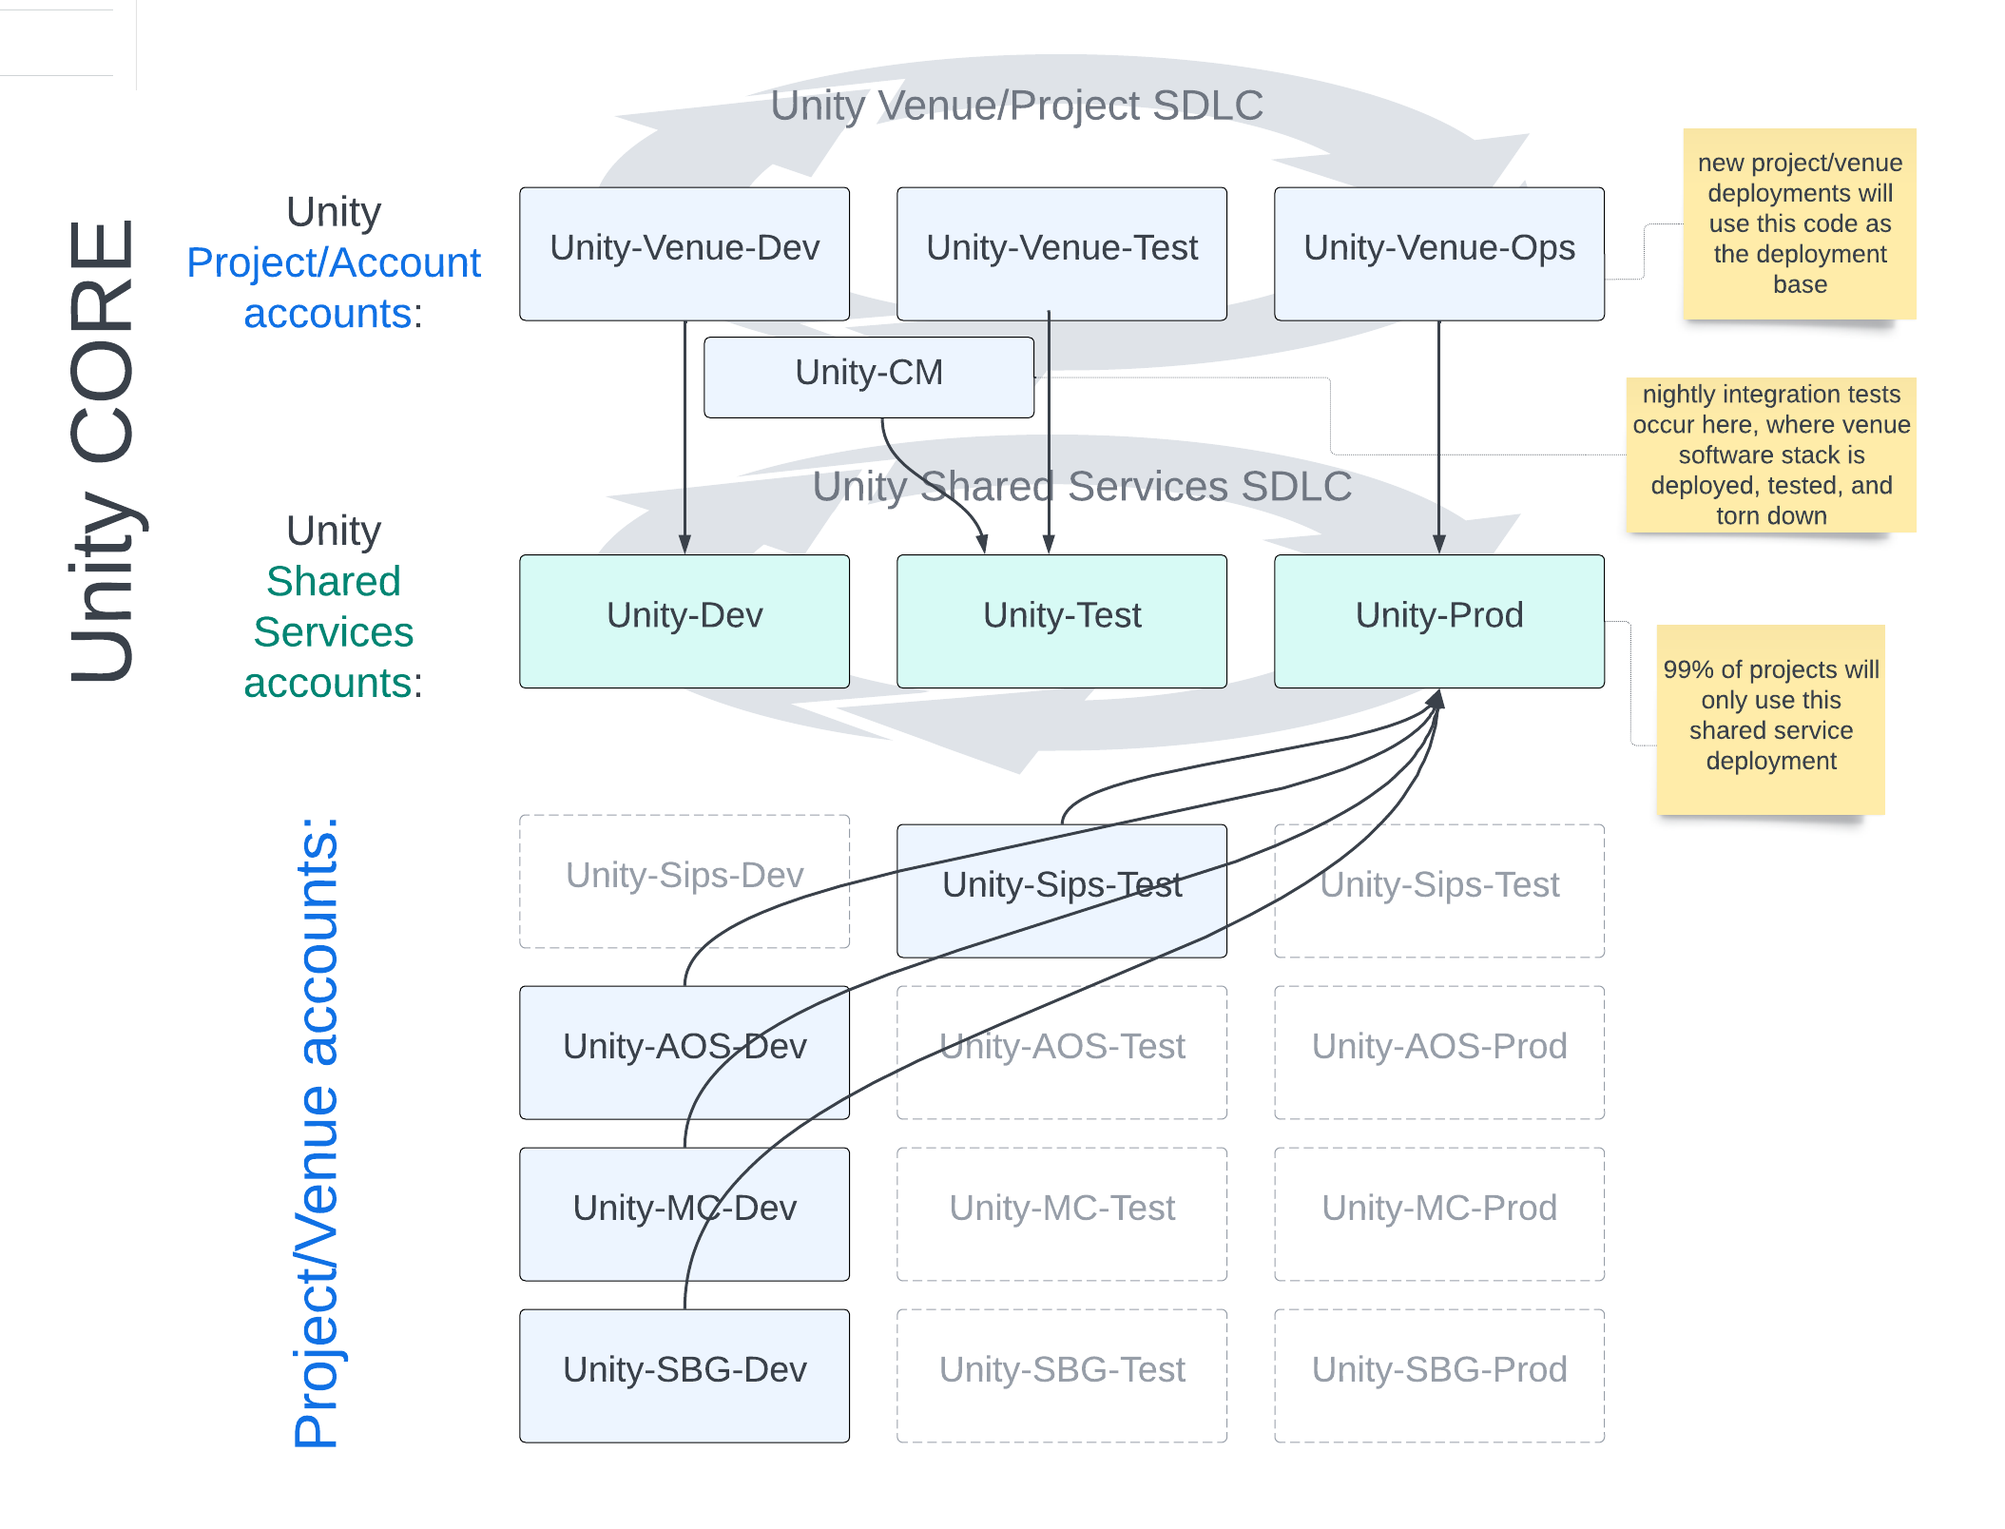
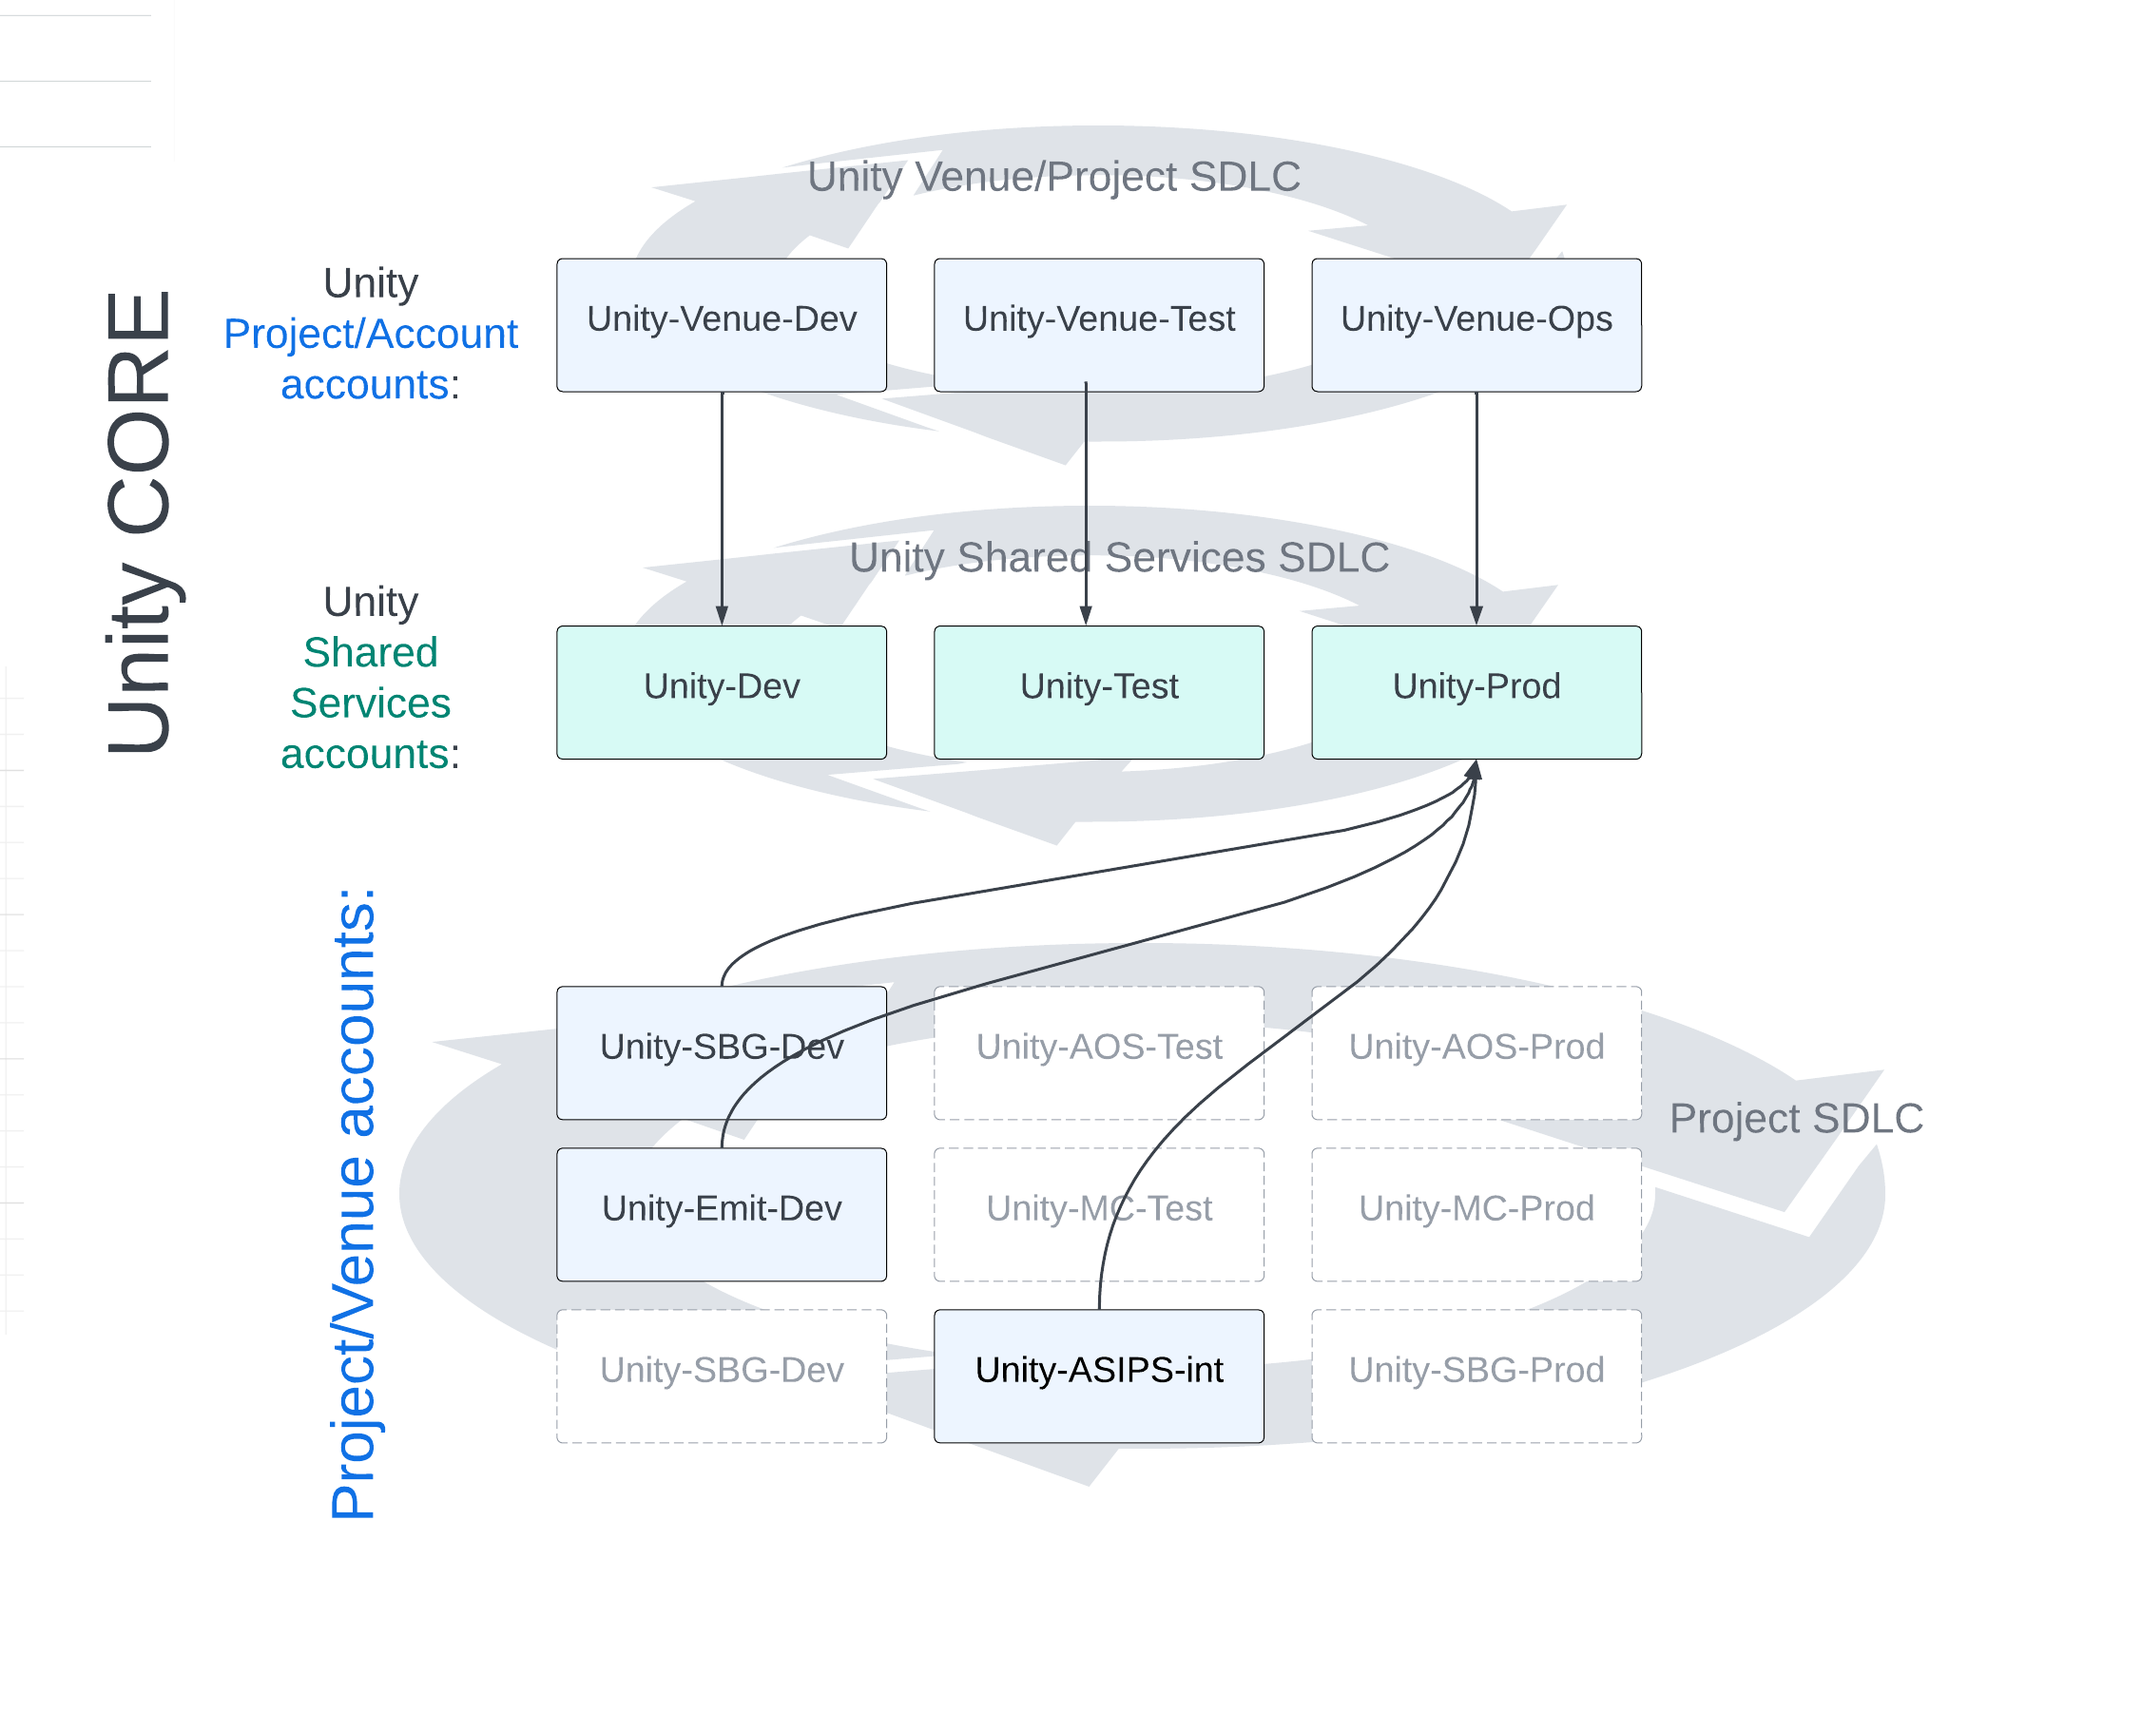
GITBOOK-514: change request with no subject merged in GitBook

diff --git a/system-docs/architecture/deployments-projects-and-venues/unity-owned-venues.md b/system-docs/architecture/deployments-projects-and-venues/unity-owned-venues.md
@@ -6,19 +6,26 @@ description: These are the currently "unity" owned venues.
 
 <div data-full-width="true">
 
-<figure><img src="../../../.gitbook/assets/Unity Venues and SDLC (5).png" alt=""><figcaption></figcaption></figure>
+<figure><img src="../../../.gitbook/assets/Unity Venues and SDLC (1).png" alt=""><figcaption></figcaption></figure>
 
 </div>
 
-| Venue            | Description                                                                                                    | Services                                                                                                                                                         | Shared Service Account                |
-| ---------------- | -------------------------------------------------------------------------------------------------------------- | ---------------------------------------------------------------------------------------------------------------------------------------------------------------- | ------------------------------------- |
-| Unity-Dev        | Development account for unity shared services                                                                  | <ul><li>data catalog</li><li>application catalog</li><li>web gateway</li><li>cognito</li><li>DAPA translator</li></ul>                                           | N/A                                   |
-| Unity-Test       | Test account for Unity shared services                                                                         | <ul><li>data catalog</li><li>application catalog</li><li>web gateway</li><li>cognito</li><li>DAPA translator</li></ul>                                           | N/A                                   |
-| Unity-Prod       | Production account for unity shared services                                                                   | <ul><li>data catalog</li><li>application catalog</li><li>web gateway</li><li>cognito</li><li>DAPA translator</li></ul>                                           | N/A                                   |
-| Unity-Sips-Test  | Venue for SounderSIPS users developing and executing  the chirp, L1a and L1B workflows.                        | <ul><li>ADES (HySDS)</li><li>Job Database</li><li>JupyterHub</li><li>Mission Store</li><li>Dashboard</li></ul>                                                   | Unity-Test (Unity-Prod in the future) |
-| Unity-CM         | Nightly test venue.                                                                                            | Management Console                                                                                                                                               | Unity-Test                            |
-| Unity-Venue-Dev  | Development environment for venue deployed services                                                            | <ul><li>ADES (HySDS)</li><li>SDAP</li><li>EMS and ADES (Airflow)</li><li>JupyterHub</li><li>Mission Store</li><li>Dashboard</li><li>Management Console</li></ul> | Unity-Dev\*                           |
-| Unity-Venue-Test | Test environment for venue deployed services                                                                   | <ul><li>EMS and ADES (Airflow)</li><li>JupyterHub</li><li>Mission Store</li><li>Dashboard</li><li>Management Console</li></ul>                                   | Unity-Test                            |
-| Unity-Venue-Ops  | Operational environment for venue deployed services. Used primarily as a smoke test or final validation venue. | <ul><li>EMS and ADES (Airflow)</li><li>JupyterHub</li><li>Mission Store</li><li>Dashboard</li><li>Management Console</li></ul>                                   | Unity-Prod\*                          |
-| Unity-SBG-Dev    | Venue to support SBD use cases                                                                                 | <ul><li>EMS and ADES (Airflow)</li><li>Mission Store</li><li>Management Console</li><li><em>JupyterHub (TBD)</em></li></ul>                                      | Unity-Prod\*                          |
-|                  |                                                                                                                |                                                                                                                                                                  |                                       |
+### Environments
+
+| Account Name  | Description                                                                                                              | Services                                                                                                                                                                            |
+| ------------- | ------------------------------------------------------------------------------------------------------------------------ | ----------------------------------------------------------------------------------------------------------------------------------------------------------------------------------- |
+| Unity-Dev     | Development Environment for Unity/MDPS **shared services** development and sandbox activities.                           | <p></p><ul><li>Data Catalog</li><li>App-pack-generation</li><li>Application Catalog</li><li>Web gateway/HTTPD</li><li>API Gateway</li><li>Cognito</li><li>DAPA translator</li></ul> |
+| Unity-Test    | Test envrionment for Unity/MDPS **shared service** releases. Load test, nightly testing, end to end system testing, etc. | <p></p><ul><li>Data Catalog</li><li>App-pack-generation</li><li>Application Catalog</li><li>Web gateway/HTTPD</li><li>API Gateway</li><li>Cognito</li><li>DAPA translator</li></ul> |
+| Unity-Prod    | Production environment for user facing **shared services**. 99% of users will be active in this environment.             | <p></p><ul><li>Data Catalog</li><li>App-pack-generation</li><li>Application Catalog</li><li>Web gateway/HTTPD</li><li>API Gateway</li><li>Cognito</li><li>DAPA translator</li></ul> |
+
+### Venues
+
+| Venue                                                  | Description                                                                                                    | Services                                                                                                                                                         | Shared Service Environment            |
+| ------------------------------------------------------ | -------------------------------------------------------------------------------------------------------------- | ---------------------------------------------------------------------------------------------------------------------------------------------------------------- | ------------------------------------- |
+| Unity-Sips-Test (Deprecated / Retired)                 | Venue for SounderSIPS users developing and executing  the chirp, L1a and L1B workflows.                        | <ul><li>ADES (HySDS)</li><li>Job Database</li><li>JupyterHub</li><li>Mission Store</li><li>Dashboard</li></ul>                                                   | Unity-Test (Unity-Prod in the future) |
+| Unity-CM                                               | Nightly test venue.                                                                                            | Management Console                                                                                                                                               | Unity-Test                            |
+| Unity-Venue-Dev                                        | Development environment for venue deployed services                                                            | <ul><li>ADES (HySDS)</li><li>SDAP</li><li>EMS and ADES (Airflow)</li><li>JupyterHub</li><li>Mission Store</li><li>Dashboard</li><li>Management Console</li></ul> | Unity-Dev                             |
+| Unity-Venue-Test                                       | Test environment for venue deployed services                                                                   | <ul><li>EMS and ADES (Airflow)</li><li>JupyterHub</li><li>Mission Store</li><li>Dashboard</li><li>Management Console</li></ul>                                   | Unity-Test                            |
+| Unity-Venue-Ops                                        | Operational environment for venue deployed services. Used primarily as a smoke test or final validation venue. | <ul><li>EMS and ADES (Airflow)</li><li>JupyterHub</li><li>Mission Store</li><li>Dashboard</li><li>Management Console</li></ul>                                   | Unity-Prod                            |
+| Unity-ASIPS-Int (Running in mcp accoint Unity-SBG-Dev) | Venue to support Atmospheric SIPS Integration use cases                                                        | <ul><li>EMS and ADES (Airflow)</li><li>Mission Store</li><li>Management Console</li><li><em>JupyterHub</em> </li></ul>                                           | Unity-Prod                            |
+| Unity-Emit-Dev                                         | Venue to support EMIT Development use cases                                                                    | <p></p><ul><li>EMS and ADES (Airflow)</li><li>Mission Store</li><li>Management Console</li><li><em>JupyterHub</em> </li></ul>                                    | Unity-Prod                            |
